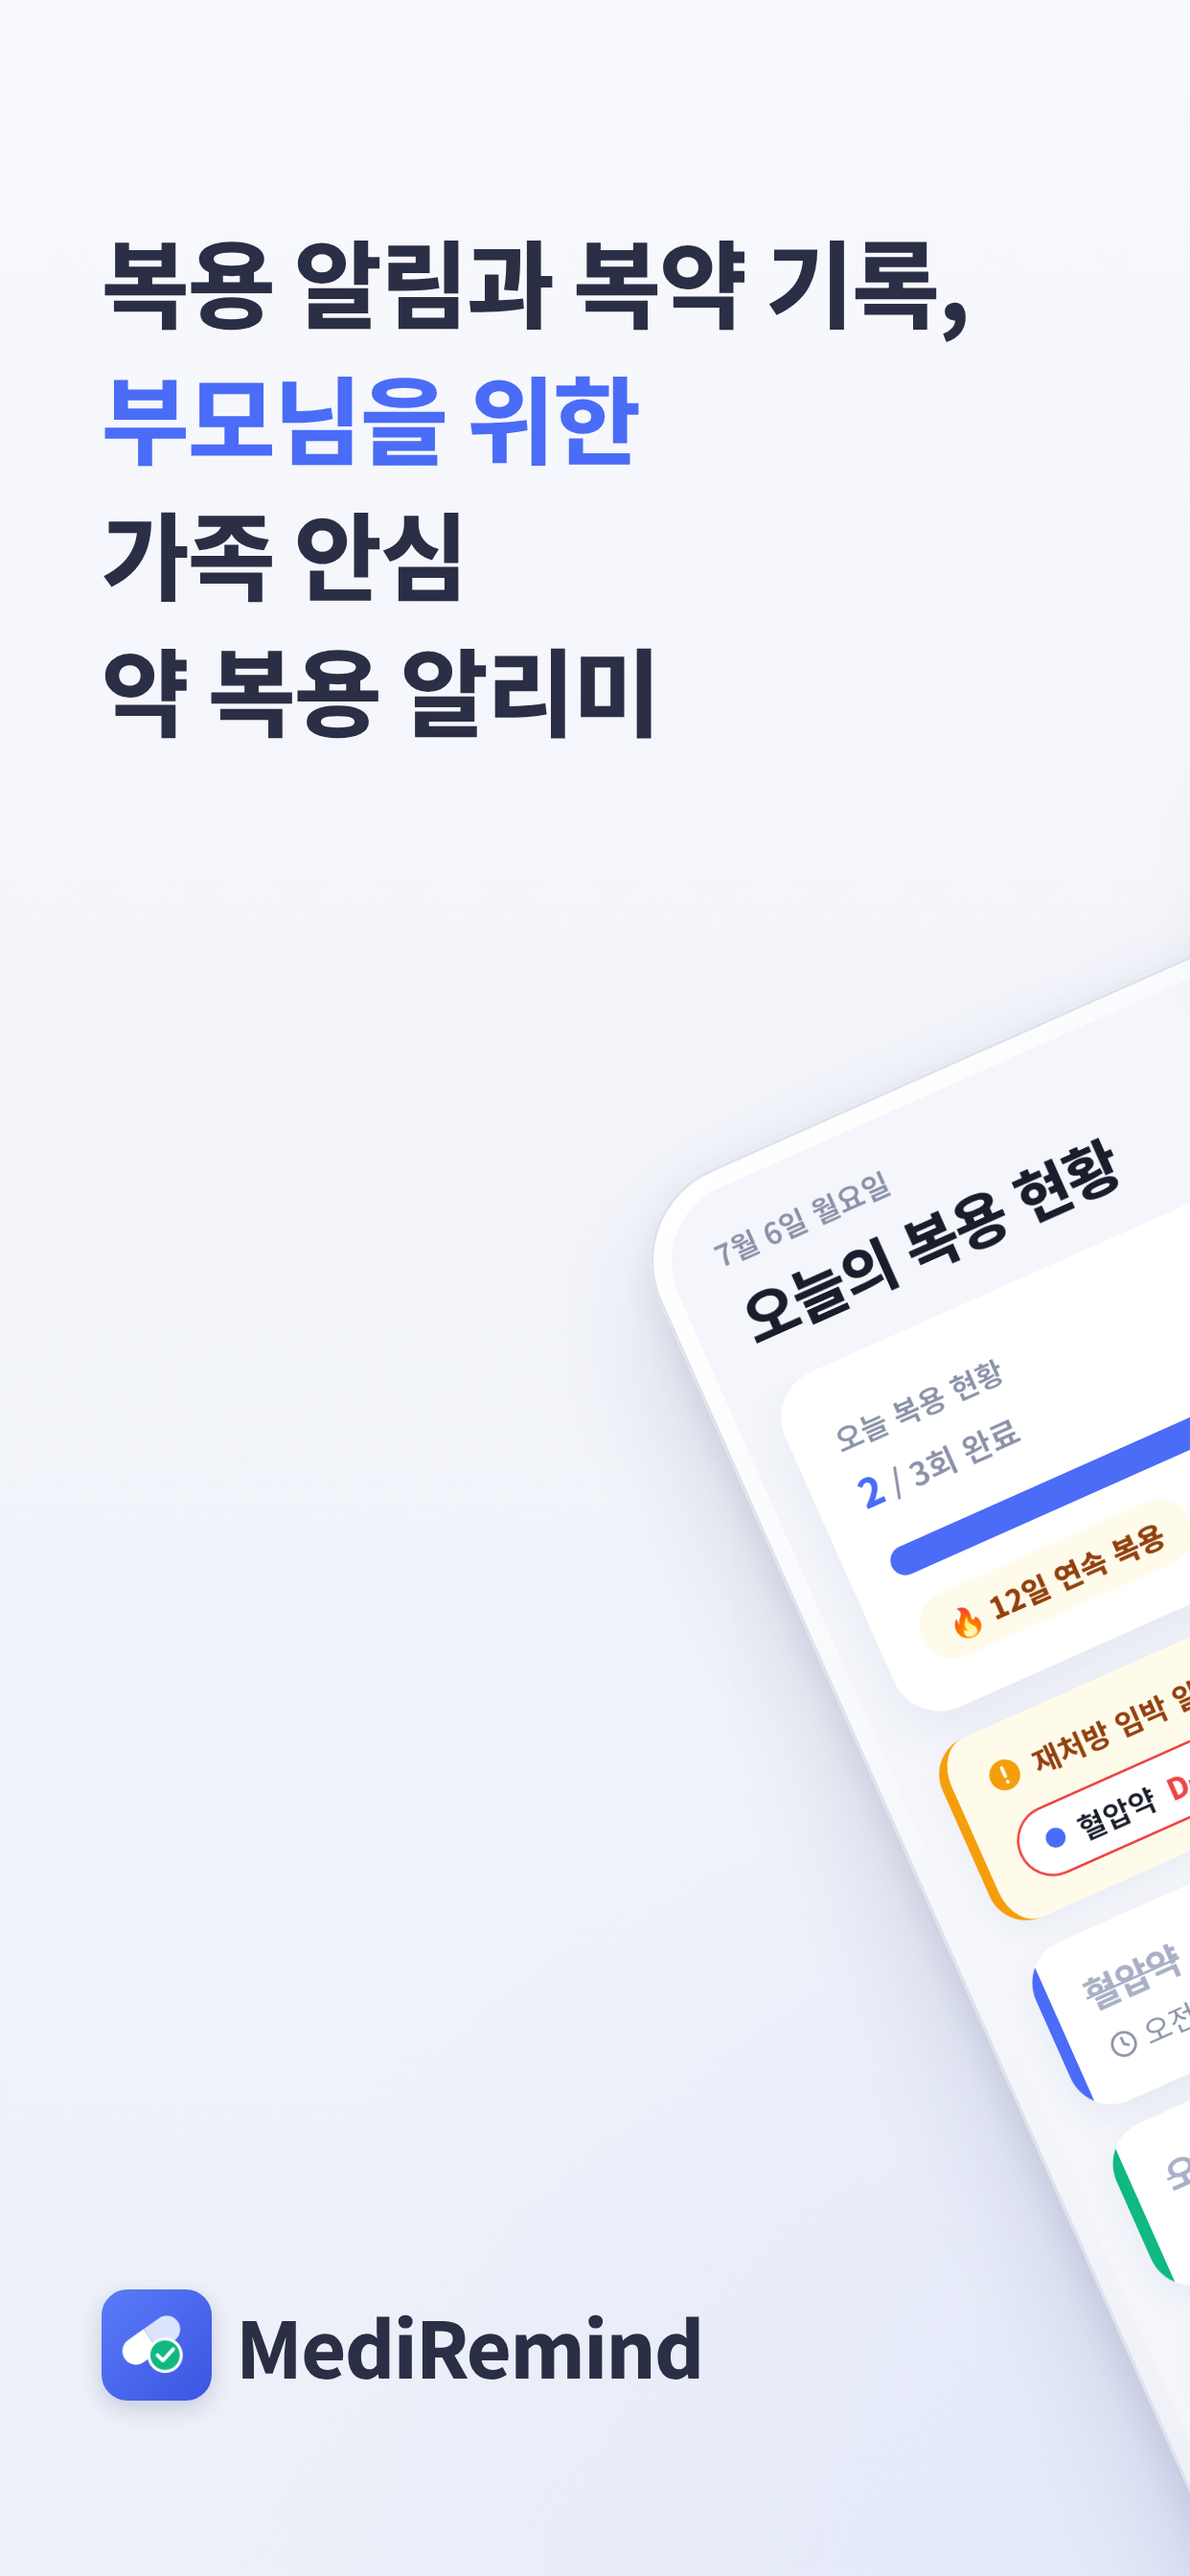
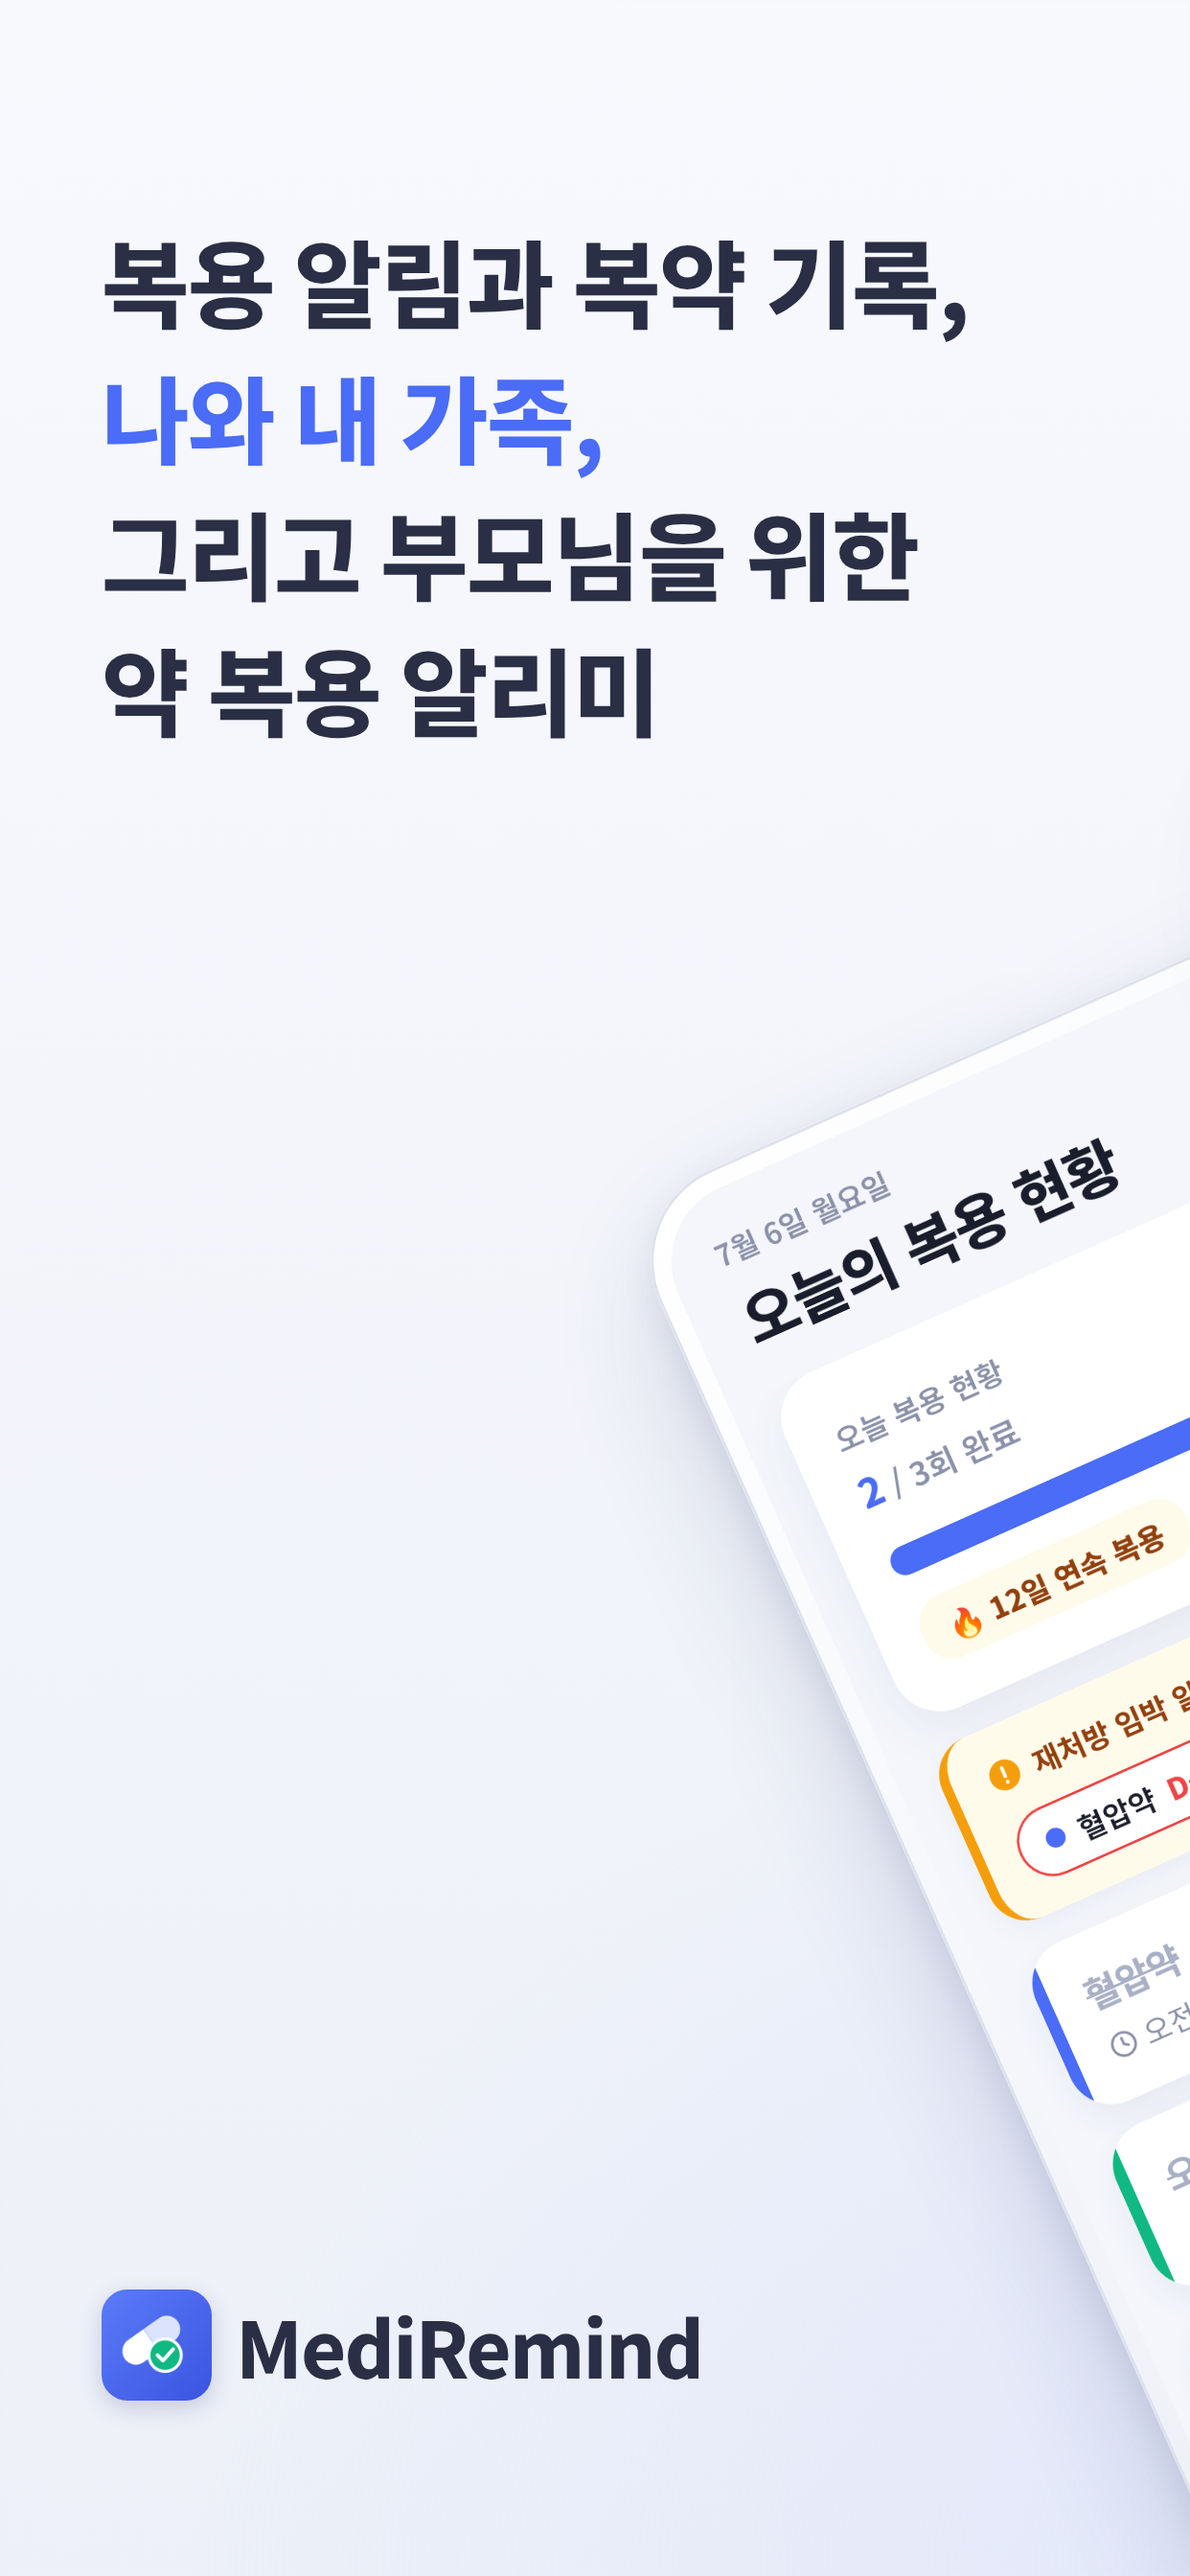
Korean store copy: broader audience, softer free-tier wording
Hero now speaks to 'me, my family and my parents'; the family alert line
says 'after the set time' instead of '30 minutes'; the last panel reads
'start free, no ads or subscription' instead of stating the two-medicine
limit, and the paywall's limit line is hidden in the store shots. The
Korean listing promo text and description follow the same wording.

Claude-Session: https://claude.ai/code/session_01FsfgzBCkXCq3RhxTQFRGQP

Changed region(s): [[0.0918, 0.125, 0.7649, 0.25]]

diff --git a/MediRemind/scripts/store-screenshots.js b/MediRemind/scripts/store-screenshots.js
@@ -107,13 +107,13 @@ const SHOTS = {
 //   singles: [mockup screen, small line, bold line, accented end of the bold line]
 const STORY = {
   ko: {
-    hero: [0, 3, ['복용 알림과 복약 기록,', '부모님을 위한', '가족 안심', '약 복용 알리미'], 1],
+    hero: [0, 3, ['복용 알림과 복약 기록,', '나와 내 가족,', '그리고 부모님을 위한', '약 복용 알리미'], 1],
     singles: [
-      [7, '약 시간이 30분 지나도 체크가 없으면', '가족에게 ', '바로 알림'],
+      [7, '정해진 시간이 지나도 체크가 없으면', '가족에게 ', '바로 알림'],
       [1, '재처방 D-Day와 복용 일정까지', '내 약을 한눈에 ', '관리'],
       [2, '하루 6회, 0.5정부터 직접 입력까지', '복용 시간·용량 ', '자유롭게'],
       [6, '밤에도 눈부시지 않게', '눈이 편한 ', '다크 모드'],
-      [5, '광고 없이, 구독 없이', '약 2개까지 ', '평생 무료'],
+      [5, '광고도 구독도 없이', '부담 없이 ', '무료로 시작'],
     ],
   },
 };
@@ -356,7 +356,7 @@ async function renderStory(browser, lang, story, shot) {
     const screens = await mock.locator('.screen').all();
     if (STORY[lang]) {
       // The store frame replaces the mockup's status bar and notch.
-      await mock.addStyleTag({ content: '.notch,.status{display:none}.push{top:10px}' });
+      await mock.addStyleTag({ content: '.notch,.status,.pw-status{display:none}.push{top:10px}' });
       const shot = async (idx) => (await screens[idx].screenshot()).toString('base64');
       await renderStory(browser, lang, STORY[lang], shot);
       await mock.close();

diff --git a/MediRemind/docs/STORE_LISTING.md b/MediRemind/docs/STORE_LISTING.md
@@ -5,7 +5,7 @@
 - **이름 (30자)**: MediRemind - 약 복용 알리미
 - **부제 (30자)**: 복용 시간 알림과 복약 기록
 - **키워드 (100자)**: 약,복약,알림,알리미,복용,영양제,처방,재처방,건강,비타민,혈압약,리마인더,캘린더
-- **프로모션 텍스트**: 약 2개까지 평생 무료 · 광고 없음 · ₩1,900 한 번이면 무제한
+- **프로모션 텍스트**: 광고도 구독도 없이 무료로 시작하세요. 정해진 시간에 약을 챙기지 못하면 가족에게 알려 드려요.
 - **설명**:
 
 ```
@@ -28,7 +28,7 @@ MediRemind는 정해진 시간에 약 복용을 알려 주고, 오늘 먹은 약
 • 연속 복용 일수로 꾸준함 확인
 
 ■ 보호자 연결 (가족 알림)
-부모님이 약 시간에서 30분이 지나도 체크하지 않으면 자녀 폰으로 알림이 가요. 6자리 코드로 간단히 연결하고, 오늘 복용 현황을 함께 볼 수 있어요.
+정해진 복용 시간이 지나도 체크가 없으면 연결된 가족의 폰으로 알림이 가요. 나와 내 가족, 부모님의 복약을 함께 챙길 수 있어요. 6자리 코드로 간단히 연결하고, 오늘 복용 현황을 함께 볼 수 있어요.
 
 ■ 재처방 알림
 처방 시작일과 일수를 입력하면 D-14, D-7, D-5, D-3에 병원 예약을 알려 드립니다.
@@ -39,7 +39,7 @@ MediRemind는 정해진 시간에 약 복용을 알려 주고, 오늘 먹은 약
 • 백업 파일로 폰을 바꿔도 기록 유지
 • 다크 모드, 글자 크기 조절, 8개 언어 지원
 
-약 2개까지는 모든 기능을 평생 무료로 쓸 수 있어요. 더 많은 약을 관리하려면 한 번만 결제하세요. 구독이 아니며, 같은 Apple ID라면 새 기기에서도 복원할 수 있습니다.
+부담 없이 무료로 시작해 보세요. 더 많은 약을 함께 관리하고 싶을 때 한 번만 결제하면 계속 쓸 수 있어요. 구독이 아니며, 같은 Apple ID라면 새 기기에서도 복원할 수 있습니다.
 
 ※ MediRemind는 의료 기기가 아니며 의사·약사의 지시를 대신하지 않습니다.
 ```
